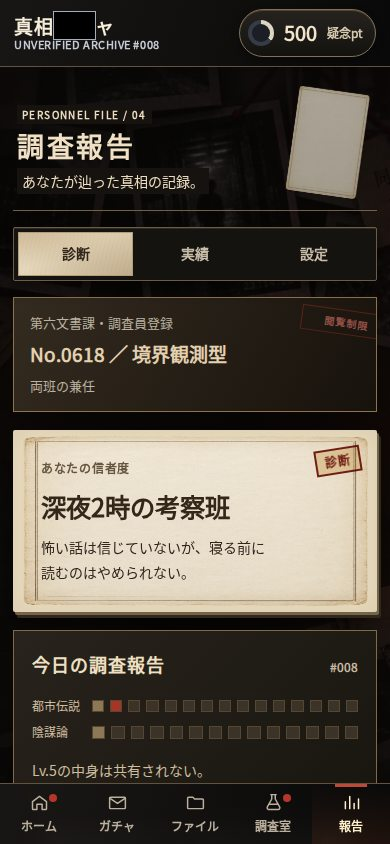
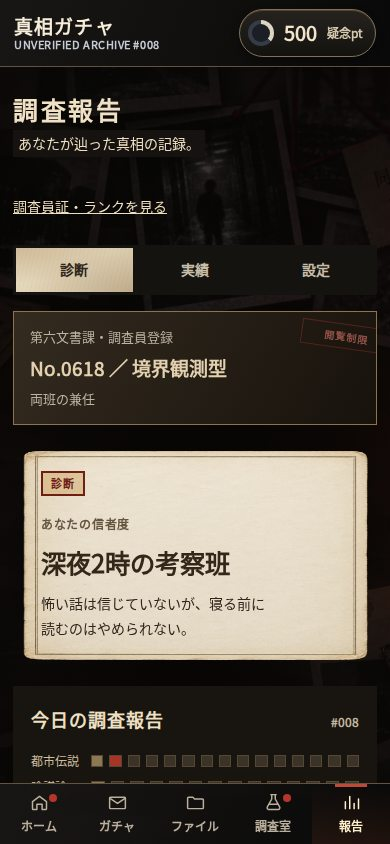
Simplify physical surfaces, tie radar to incursions and separate currency from rank (#47)

Changed region(s): [[0.0308, 0.0924, 0.9846, 0.9242], [0.1231, 0.0, 0.2462, 0.0616]]

diff --git a/index.html b/index.html
@@ -997,6 +997,7 @@ main:has(.gacha-scene:not([hidden])){padding-bottom:calc(var(--nav-h) + env(safe
 <link rel="stylesheet" href="assets/readability.css">
 <link rel="stylesheet" href="assets/incursions.css">
 <link rel="stylesheet" href="assets/layout-safety.css">
+<link rel="stylesheet" href="assets/information-ui.css">
 
 <header class="top">
   <div class="top-in">
@@ -1064,7 +1065,7 @@ main:has(.gacha-scene:not([hidden])){padding-bottom:calc(var(--nav-h) + env(safe
   <!-- HOME -->
   <section class="view agent-home" data-view="home">
     <div class="home-tabs" role="group" aria-label="調査デスクの表示切替">
-      <button data-htab="desk" aria-pressed="true">異常探知</button>
+      <button data-htab="desk" aria-pressed="true">異変の観測</button>
       <button data-htab="tasks" aria-pressed="false">本日の任務</button>
     </div>
     <div class="agent-footer">
@@ -1073,7 +1074,7 @@ main:has(.gacha-scene:not([hidden])){padding-bottom:calc(var(--nav-h) + env(safe
 
     <div class="home-pane" data-hpane="desk">
       <section class="thread-radar" aria-label="異常探知スレッド">
-        <div class="radar-head"><span>第六文書課 / 異常探知網</span><b>THREAD RADAR</b><i class="live">● LIVE</i></div>
+        <div class="radar-head"><span>異変の観測</span><button type="button" data-desk="evidence">検知記録を見る</button></div>
         <div class="radar-screen"><div class="radar-sector" aria-hidden="true"><span>SECTOR-A7 / SIM</span><span>STATUS: MONITORING</span></div>
           <div class="radar-grid" aria-hidden="true"><i></i><i></i><i></i><i></i></div>
           <div class="radar-sweep" aria-hidden="true"></div>
@@ -1083,7 +1084,7 @@ main:has(.gacha-scene:not([hidden])){padding-bottom:calc(var(--nav-h) + env(safe
             <b id="radar-distance">---</b>
             <span id="radar-place">反応を走査中</span>
           </div>
-          <div class="radar-posts" id="radar-posts" aria-live="polite"></div>
+          <div class="radar-posts" id="radar-posts" hidden></div>
         </div>
       </section>
       <p class="streak" id="streak" hidden></p>
@@ -1196,6 +1197,7 @@ main:has(.gacha-scene:not([hidden])){padding-bottom:calc(var(--nav-h) + env(safe
   <!-- REPORT -->
   <section class="view dossier-view report-scene" data-view="report" hidden>
     <header class="scene-heading"><span class="eyebrow">PERSONNEL FILE / 04</span><h1>調査報告</h1><p>あなたが辿った真相の記録。</p></header>
+    <button type="button" class="agent-record-link" id="agent-record">調査員証・ランクを見る</button>
     <div class="section-tabs three" role="group" aria-label="報告画面切替">
       <button data-stab="report:diag" aria-pressed="true">診断</button>
       <button data-stab="report:achieve" aria-pressed="false">実績</button>
@@ -2055,7 +2057,7 @@ function evidenceHTML() {
     visual = `<div class="ev-audio"><div class="wave">${hs.map(h=>`<i style="--h:${h}%"></i>`).join("")}</div></div>`;
   } else if (e.type === "transit") visual = '<div class="ev-map"><span class="transit-mark">ENTRY -- / EXIT 23:41</span></div>';
   else visual = `<div class="ev-cctv"><b>IMG ${e.code} / SUBJECT UNLISTED</b></div>`;
-  return `<div class="evidence-stack"><div class="ev-status"><span>${e.code}</span><span>${r.place}</span><span class="${r.urgent ? "danger" : ""}">${r.state}</span></div><div class="evidence-view" data-kind="${e.type}"><div class="ev-head"><span>${e.label}</span><span>${e.clock}</span></div>${visual}<div class="ev-transcript">${e.note}</div></div><p class="hint" style="text-align:left">第六文書課・自動収集記録。表示地点と距離はゲーム内観測値です。</p></div>`;
+  return `<div class="evidence-stack"><div class="ev-status"><span>${e.code}</span><span>${r.place}</span><span class="${r.urgent ? "danger" : ""}">${r.state}</span></div><div class="evidence-view" data-kind="${e.type}"><div class="ev-head"><span>${e.label}</span><span>${e.clock}</span></div>${visual}<div class="ev-transcript">${e.note}</div></div><p class="hint" style="text-align:left">第六文書課・自動収集記録。記録の地点は架空の観測地点です。</p></div>`;
 }
 function caseState() {
   S.caseLog = S.caseLog || {};
@@ -2111,16 +2113,19 @@ function openAnomalyEvidence() {
   sheet("異常証拠 / " + e.label, evidenceHTML() + decision);
 }
 function renderRadar() {
-  const r = radarSignal(), blips = $("radar-blips");
-  if (!blips) return;
-  $("radar-distance").textContent = r.state.startsWith("SEALED") ? "LOCK" : r.distance < 1000 ? r.distance + "m" : (r.distance / 1000).toFixed(1) + "km";
-  $("radar-state").textContent = r.state;
-  $("radar-place").textContent = r.place + "付近 / ゲーム内観測";
-  const pts = [[18,25],[68,18],[32,70],[75,63],[51,43]];
-  blips.innerHTML = pts.map((p,i) => {
-    const cls = i === 4 ? (r.urgent ? "danger" : r.near ? "warn" : "") : i === 1 && !r.near ? "sealed" : "";
-    return `<i class="radar-blip ${cls}" style="left:${p[0]}%;top:${p[1]}%"></i>`;
-  }).join("");
+  const blips=$("radar-blips");if(!blips)return;
+  const a=incursionState(),level=a?.level||0,event=a?.event;
+  const stage=level>=70?'close':event?'noticed':level?'trace':'calm';
+  document.querySelector('.thread-radar').dataset.signal=stage;
+  $("radar-state").textContent=event?`異変 Lv.${event.tier}`:'観測状態';
+  $("radar-distance").textContent=level>=70?'接近中':event?'反応あり':level?'微かな反応':'静穏';
+  $("radar-place").textContent=level>=70?'こちらの動きに、反応している。':event?'同じ反応が、消えずに残る。':level?'記録にはない気配がある。':'今は、こちらを見ていない。';
+  const pts=event?[[51,43],[68,25],[32,70]].slice(0,event.tier):level?[[68,25]]:[];
+  blips.innerHTML=pts.map(p=>`<i class="radar-blip ${level>=70?'danger':'warn'}" style="left:${p[0]}%;top:${p[1]}%"></i>`).join('');
+  const button=document.querySelector('.radar-head button');
+  button.textContent=event?'異変に対処する':'検知記録を見る';
+  if(event){delete button.dataset.desk;button.dataset.inc='open';}
+  else{delete button.dataset.inc;button.dataset.desk='evidence';}
 }
 function renderDeskEvent() {
   const e = deskEventData(), card = $("desk-event");
@@ -2130,7 +2135,7 @@ function renderDeskEvent() {
   $("desk-title").innerHTML = e.title;
   $("desk-body").textContent = e.body;
   $("desk-stamp").textContent = e.stamp;
-  $("desk-actions").innerHTML = `<button class="btn-line" data-desk="evidence">${caseState() ? "処理記録を見る" : "検知記録を見る"}</button>`;
+  $("desk-actions").replaceChildren();
   const primary = $("agent-primary");
   if (primary) {
     primary.textContent = e.label;
@@ -2174,7 +2179,9 @@ function render() {
   document.querySelectorAll("[data-pull]").forEach(b => { const n = +b.dataset.pull; b.hidden = n > 5 && !bulkOpen(n); b.disabled = !bulkOpen(n) || S.currency < COST[n]; });
   [10, 100].forEach(n => { $("lbl-" + n).textContent = bulkOpen(n) ? `${COST[n]}pt（演出なし）` : `RANK ${BULK_RANK[n] + 1}で解放`; });
   $("cab-desc").textContent = BOX_DESC[box];
-  // Rank elements exist only while the wallet detail sheet has been created.
+  // Rank details live in the personnel sheet, separate from currency.
+  if($("wallet-current"))$("wallet-current").textContent=Math.floor(S.currency).toLocaleString("ja-JP")+"pt";
+  if($("wallet-hour"))$("wallet-hour").textContent="約"+Math.round(3600000/idleStep()).toLocaleString("ja-JP")+"pt / 時間";
   if ($("rk-name")) {
   const ri = rankIdx(), rk = RANKS[ri], nx = RANKS[ri + 1];
   $("rk-name").textContent = rk.name;
@@ -2502,7 +2509,7 @@ function addPost() {
   const haunted = Math.random() < (hour() === 2 ? .3 : .08);
   let body;
   if (haunted) body = ["同じ反応がまた出た。今度は近い", "駅のカメラだけ時刻がずれてる", "処理済みのはず。なのに再検出", "その地点、昨日も出てた", "このレス、俺は書いてない", "第六文書課：当該投稿を記録保全しました"][Math.floor(Math.random() * 6)];
-  else if (Math.random() < .14) { const r = radarSignal(); body = `${r.place}の反応、まだ消えてない。距離表示だけ縮んでる`; }
+  else if (Math.random() < .14) { const r = radarSignal(); body = `${r.place}の反応、まだ消えてない。こちらに近づいている気がする`; }
   else if (crowd && crowd.length > 1 && Math.random() < .15) body = `同じ異常を追ってる調査員がいるらしい`;
   else if (Math.random() < .2) { const t = todayItem(); body = lv(t.id) ? `今日の噂「${t.name}」、もうLv${lv(t.id)}まで行ったやついる？` : `今日の噂、${[...t.name].length}文字らしい。誰か引いた？`; }
   else body = POSTS[Math.floor(Math.random() * POSTS.length)];
@@ -3119,13 +3126,16 @@ $("lite-apply").addEventListener("click", startInterview);
 const idleMult = () => (1 + .05 * rankIdx()) * (1 + .1 * upLv("radio"));
 function idleStep() { return (hour() === 2 ? 2500 : 5000) / idleMult(); }
 function openWalletDetail() {
-  if (isLite()) return;
-  const step = idleStep(), perMin = 60000 / step, perHour = perMin * 60;
-  const next = Math.max(0, step - (Date.now() - S.lastTick));
-  const night = hour() === 2;
-  sheet("疑念pt / 自動獲得", `<div class="wallet-detail"><div><span>現在</span><b>${Math.floor(S.currency)}pt</b></div><div><span>自動獲得</span><b>+1 / ${(step/1000).toFixed(1)}秒</b></div><div><span>1分</span><b>約${perMin.toFixed(1)}pt</b></div><div><span>1時間</span><b>約${Math.round(perHour)}pt</b></div></div><div class="research-card ready"><b>次の +1pt まで ${(next/1000).toFixed(1)}秒</b><div class="rk-bar"><i style="width:${Math.min(100,(1-next/step)*100)}%"></i></div><small>ランク補正 ×${(1+.05*rankIdx()).toFixed(2)} ／ 無線設備 ×${(1+.1*upLv("radio")).toFixed(2)}${night ? " ／ 丑三つ時 ×2" : ""}</small></div><div class="rankcard wallet-rank">${rankEmblem()}<div class="rk-top"><span class="eyebrow" id="rk-lv">RANK 1 / 20</span><b id="rk-name">見習い調査員</b></div><div class="rk-bar"><i id="rk-bar" style="width:0%"></i></div><div class="rk-row"><span id="rk-next"></span></div><div class="perks" id="rk-perks"></div><div class="rk-row" id="rk-deep"></div><div class="pity"><span>未発見資料の確定まで</span><b id="pity-left">あと30回</b></div></div><p class="hint" style="text-align:left">留守中の獲得には上限があります。通信端末の強化で上限が延びます。</p>`);
+  if(isLite())return;
+  const perHour=Math.round(3600000/idleStep());
+  sheet("疑念pt", `<div class="wallet-summary"><span>所持ポイント</span><strong id="wallet-current">${Math.floor(S.currency).toLocaleString('ja-JP')}pt</strong><p>封筒の開封に使います。</p><div><span>プレイ中の自動獲得</span><b id="wallet-hour">約${perHour.toLocaleString('ja-JP')}pt / 時間</b></div><p class="wallet-note">留守中も少しずつ貯まります（上限${2+upLv('phone')}時間）。</p></div>`);
+}
+function openAgentRecord() {
+  if(isLite())return;
+  sheet("調査員証・ランク", `<div class="rankcard wallet-rank">${rankEmblem()}<div class="rk-top"><span class="eyebrow" id="rk-lv">RANK 1 / 20</span><b id="rk-name">見習い調査員</b></div><div class="rk-bar"><i id="rk-bar" style="width:0%"></i></div><div class="rk-row"><span id="rk-next"></span></div><div class="perks" id="rk-perks"></div><div class="rk-row" id="rk-deep"></div><div class="pity"><span>未発見資料の確定まで</span><b id="pity-left">あと30回</b></div></div>`);
   render();
 }
+$("agent-record").addEventListener("click",openAgentRecord);
 function tick() {
   if (isLite()) { S.lastTick = Date.now(); return; }
   const step = idleStep(), el = Date.now() - S.lastTick;

diff --git a/assets/information-ui.css b/assets/information-ui.css
@@ -1,0 +1,53 @@
+/* One physical surface per component; no extra picture frames around props. */
+.logo .bar { background:transparent; color:inherit; box-shadow:none; }
+.logo { animation:none; }
+.dossier-view .scene-heading { padding:8px 0 12px; min-height:0; border-bottom:0; }
+.dossier-view .scene-heading::after { display:none; }
+.dossier-view .scene-heading .eyebrow { display:none; }
+.dossier-view .scene-heading h1 { font-size:25px; }
+.dossier-view .section-tabs,.agent-home > .home-tabs { border:0; box-shadow:none; background:#15130f; padding:3px; }
+.dossier-view .section-tabs button[aria-pressed='true'],.agent-home > .home-tabs button[aria-pressed='true'] { box-shadow:none; }
+.agent-home .desk-event,.report-scene .diag { border:0; border-radius:0; box-shadow:none; background-color:transparent; }
+.agent-home .desk-event { background:var(--ui-stock); padding:20px; }
+.agent-home .desk-event .clip,.agent-home .desk-event .stamp-sm,.agent-home .desk-event::before,.agent-home .desk-event::after { display:none; }
+.agent-home .desk-event .actions:empty { display:none; }
+.report-scene .diag::before,.report-scene .diag::after { display:none; }
+.report-scene .diag .stamp-sm { position:static!important; width:fit-content; transform:none; font-size:11px; margin-bottom:6px; }
+.archive-scene .progress,.report-scene .grid-card { border:0; box-shadow:none; background:#181510; }
+.archive-scene .files::before { display:none; }
+.archive-scene .folder { box-shadow:none; }
+.agent-home .mi,.agent-home .mi.done { background:transparent; box-shadow:none; }
+.agent-home [data-hpane='tasks'] .sec-h { flex-wrap:wrap; gap:4px; }
+.agent-record-link { min-height:44px; text-align:left; padding:8px 0; color:#f0dfbf; font-size:14px; text-decoration:underline; }
+/* Radar is an atmosphere/status instrument. One readable action, no fake precision. */
+.agent-home .thread-radar { outline:0; border:0; box-shadow:none; border-radius:0; background:#101713; overflow:hidden; }
+.agent-home .radar-head { min-height:44px; display:flex; align-items:center; justify-content:space-between; padding:0 12px; background:#101713; border:0; color:#dddfcc; }
+.agent-home .radar-head button { min-height:44px; padding:8px 0 8px 10px; font-size:13px; color:#f2e6cc; text-decoration:underline; }
+.agent-home .radar-screen { min-height:144px!important; max-height:144px!important; background:radial-gradient(ellipse at 25% 50%,#24463670,transparent 65%),#0b130f; }
+.agent-home .radar-sector,.agent-home .radar-posts,.agent-home .radar-screen::after { display:none; }
+.agent-home .radar-grid,.agent-home .radar-blips { width:126px; height:126px; left:25%; top:9px; }
+.agent-home .radar-grid { opacity:.8; }.agent-home .radar-grid::before { inset:25px; }.agent-home .radar-grid::after { inset:43px; content:''!important; background:transparent!important; }
+.agent-home .radar-contact { position:absolute; inset:16px 12px auto auto; width:47%; border:0; padding:0; background:transparent; box-shadow:none; }
+.agent-home .radar-contact small { font-size:12px; color:#ccd9c6; }.agent-home .radar-contact b { font-size:24px; color:#f0e9ce; }
+.agent-home .radar-contact span { white-space:normal; overflow:visible; font-size:13px; line-height:1.65; color:#cbd6c4; }
+.agent-home .radar-sweep { opacity:.22; }
+body.incursion-quiet .radar-sweep { display:none; }
+.thread-radar[data-signal='close'] .radar-screen { background:radial-gradient(ellipse at 25% 50%,#61221e80,transparent 65%),#15110e; }
+.wallet-summary { display:grid; gap:14px; padding:4px 0 10px; color:#f4e6c9; }
+.wallet-summary > strong { font-size:clamp(28px,8vw,38px); line-height:1.3; overflow-wrap:anywhere; }
+.wallet-summary p { margin:0; font-size:14px; line-height:1.65; }
+.wallet-summary > div { display:grid; gap:5px; padding:16px 0; border-top:1px solid #65553e; border-bottom:1px solid #65553e; }
+.wallet-summary > div b { font-size:22px; }.wallet-summary .wallet-note { color:#dfcfb1; }
+@media(max-width:360px) { .agent-home .radar-contact b { font-size:21px; }.agent-home .radar-head { padding-inline:10px; }.agent-home .desk-event { padding:16px; } }
+@media(prefers-reduced-motion:reduce) { .radar-sweep,.radar-blip { animation:none!important; } }
+@media(max-height:740px) {
+ .agent-home .radar-screen { min-height:108px!important; max-height:108px!important; }
+ .agent-home .radar-grid,.agent-home .radar-blips { width:96px; height:96px; top:6px; }
+ .agent-home .radar-grid::before { inset:20px; }.agent-home .radar-grid::after { inset:34px; }
+ .agent-home .radar-contact { top:8px; }.agent-home .radar-contact b { font-size:20px; }.agent-home .radar-contact span { font-size:12px; line-height:1.45; }
+ .agent-home .desk-event { min-height:0; padding:16px; }.agent-home .desk-event h2 { padding-right:0; }
+}
+.agent-home .thread-radar::before { display:none; }
+.agent-home .home-pane[data-hpane='desk'] .desk-event { min-height:0; }
+.agent-home .desk-event h2 { padding-right:0; }
+.agent-home #agent-primary { scroll-margin-block:90px; }

diff --git a/assets/incursions.js b/assets/incursions.js
@@ -52,6 +52,7 @@ function renderIncursion() {
   const label={calm:'静穏',trace:'違和感',noticed:'観測されている',close:'侵入の兆候',breach:'開封を一時停止'}[stage];
   const text=`${label}${a.event?' Lv.'+a.event.tier:''} ${a.level}/100　｜　${a.event?'対処する':'対処記録'}`;
   if(b.textContent!==text)b.textContent=text;
+  if(typeof renderRadar==='function')renderRadar();
   b.setAttribute('aria-label',`異変の危険度 ${a.level} / 100。${label}。${a.event?'対処画面を開く':'対処記録を開く'}`);
 }
 let incursionReturnFocus=null;

diff --git a/docs/UI_INFORMATION.md b/docs/UI_INFORMATION.md
@@ -1,0 +1,23 @@
+# 画面情報の整理（2026-10-09）
+
+## 解析
+- 素材の紙枠にCSSの枠・多重影が重なり、矩形の台紙が何重にも見える。右上の装飾画像は内容の判断に寄与せず、文字幅も狭めていた。
+- レーダーは日次の検知記録と処理選択への導線を持つが、距離・座標は疑似値で、異変の危険度とは別系統。状態・距離・地名・ログが小面積に重なっていた。
+- 疑念ptの詳細に毎秒/毎分/毎時の換算、次の獲得カウントダウン、補正値、ランク、レア率、天井まで混在していた。
+
+## 対応タスク
+- [x] 右上の装飾画像を撤去。紙素材の外側の下地・多重影・重複枠を整理。
+- [x] タブ、任務行、進捗欄の重複した矩形枠を減らす。
+- [x] ロゴの黒い矩形を外し「真相ガチャ」を読める状態にする。
+- [x] レーダーを異変の危険度とLv.へ連動。静穏/微かな反応/反応あり/接近中、反応点数を表示。
+- [x] 距離・座標・端末番号・短いログをレーダーの表面から除去。異変ありなら対処、平常時は検知記録を開く。
+- [x] 検知記録と現地確認/遠隔封鎖/経過観察を維持。資料カードの重複した検知記録ボタンを撤去。
+- [x] 疑念ptを所持量・使い道・プレイ中の1時間の獲得目安・留守中上限へ集約。表示中も所持量を更新。
+- [x] ランク・特典・未発見保証は調査報告の「調査員証・ランク」に移動。
+- [x] 狭い画面の折返し、下部ナビとの重なり、44px操作対象、既存の報酬・保存・異変対処を検証。
+
+## 完了条件
+スマホ320〜430pxで横はみ出しがなく、主要操作に到達できること。レーダーの状態と実際の異変が一致し、平常/異変の双方で正しい画面へ遷移すること。ポイント・ランク・検知記録の機能を削除せず、適切な場所から参照できること。
+
+## 検証
+`tests/information-ui.cjs` に4段階のレーダー、直接対処、検知記録3選択、簡潔なポイント表示の更新、ランクへの導線、320/390/430pxの検証を追加。既存のsmoke/photoreal/dossier-ui/incursions/layout/intro/incursion-growthを回帰確認。画面はGitHub ActionsのQA artifactにも出力。実機Safariは未検証。
